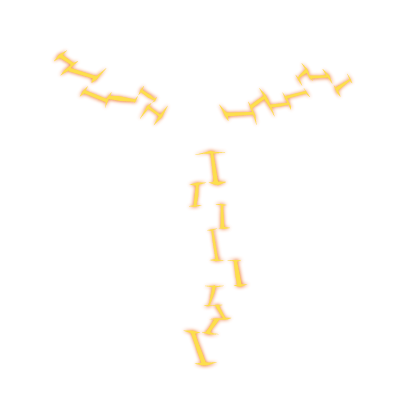
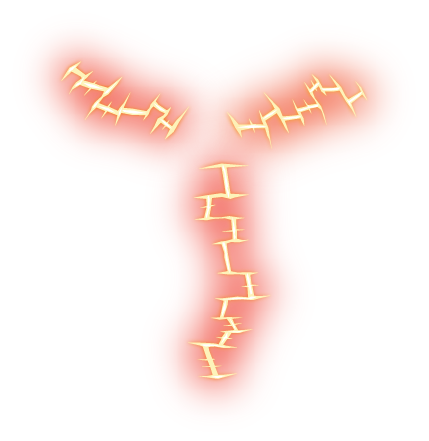
Valcanoes have been added and  a new cooler title

Changed region(s): [[0.0893, 0.0929, 0.8933, 0.9286]]

diff --git a/main.js b/main.js
@@ -13,6 +13,18 @@ var containers = [
         ext: ".png",
         scale: 1.1
     },
+    /* Commented out because they were too darn ugly with the transparency issues!*/
+    {
+        name: "volcanoes",
+        isFrame: false,
+        items: 5,
+        width: 325,
+        height: 322,
+        x: 274,
+        y: 425,
+        path: "./images/animations/volcanoes/volcano",
+        ext: ".png"
+    },
     {
         name: "iceCaps",
         isFrame: false,
@@ -47,18 +59,6 @@ var containers = [
         path: "./images/animations/mountains/mountain",
         ext: ".png"
     },
-    /* Commented out because they were too darn ugly with the transparency issues!*/
-//    {
-//        name: "volcanoes",
-//        isFrame: false,
-//        items: 5,
-//        width: 325,
-//        height: 322,
-//        x: 274,
-//        y: 425,
-//        path: "./images/animations/volcanoes/volcano",
-//        ext: ".png"
-//    },
     {
         name: "co2Meter",
         isFrame: true,
@@ -204,7 +204,7 @@ function init(forcerObj, timeScaleOps) {
         var currentBoxen = 0;
 
         function loopBoxen(box) {
-            var properOrder = [2,3,1,0,4,5,8,7,6,9],
+            var properOrder = [3,4,2,0,1,6,7,8,9,10],
                 cc = boxen[properOrder[box]];
             //move spotlight
             moveLightBeam(cc.x + (cc.width * cc.scale) / 2, cc.y + (cc.height * cc.scale) / 2,

diff --git a/index.html b/index.html
@@ -3,7 +3,7 @@
 
 <head>
     <meta charset="utf-8">
-    <title>BYU-Idaho</title>
+    <title>Planet Simulator of Supreme Awesomeness</title>
     <meta name="viewport" content="width=device-width, initial-scale=1">
     <link rel="stylesheet" href="styles.css" />
 </head>
